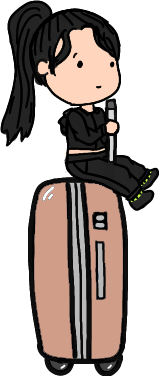
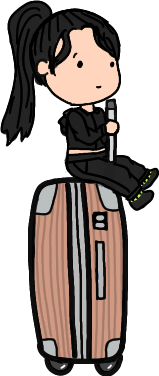
Added the ground and updated the moonbyul sprite

Changed region(s): [[0.2013, 0.4681, 0.478, 0.9654], [0.5283, 0.4681, 0.7799, 0.9654]]

diff --git a/andarJump.js b/andarJump.js
@@ -32,6 +32,7 @@ var player;
 var level; 
 var levelTimer;
 var timerTime;
+var cursors;
 
 function mainPreload(){
 	this.load.setBaseURL('https://raw.githubusercontent.com/chatterboxn18/chatterboxn18.github.io/master/')
@@ -41,11 +42,15 @@ function mainPreload(){
 
 function mainCreate(){
 	var cabinet = this.add.image(200,200, 'cabinet');
-	cabinet.setScale(.1);
+	cabinet.setScale(.3);
+	createPlayer(this);
 }
 
-function createPlayer(){
+function createPlayer(game){
 	player = game.physics.add.sprite(50, 0, 'moonbyul');
+	player.setScale(.3);
+	player.setCollideWorldBounds(true);
+	cursors = game.input.keyboard.createCursorKeys();
 }
 
 function mainUpdate(){
@@ -53,5 +58,8 @@ function mainUpdate(){
 		if (cursors.up.isDown){
 			player.setVelocityY(-350);
 		}
+	}
+	else if (player.body.touching.down){
+		player.setVelocityX(0);
 	}
 }
